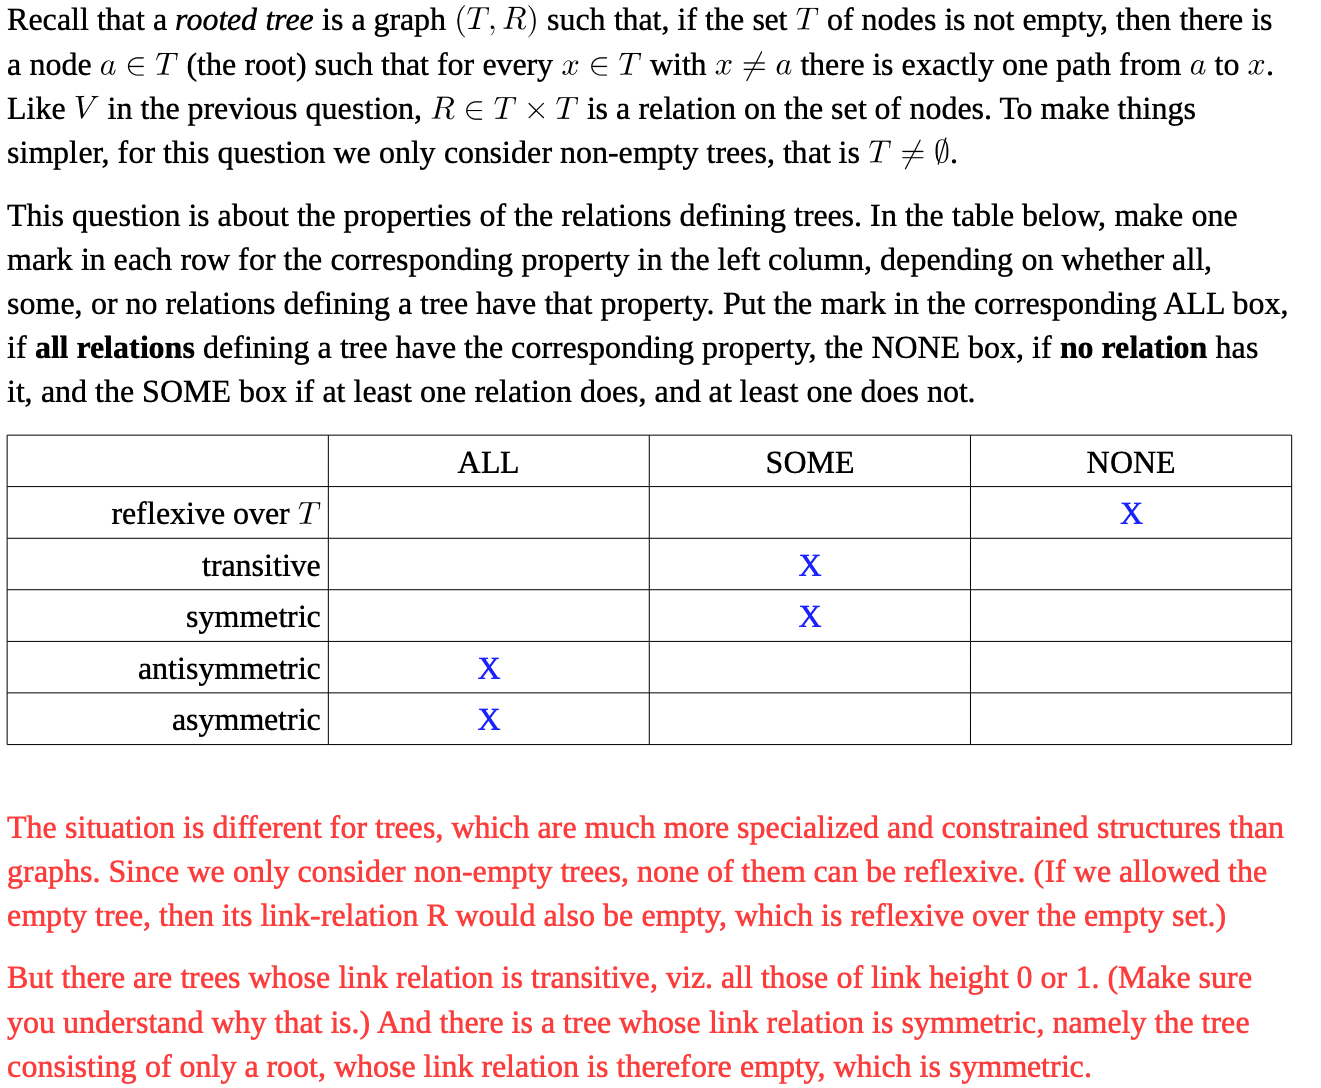
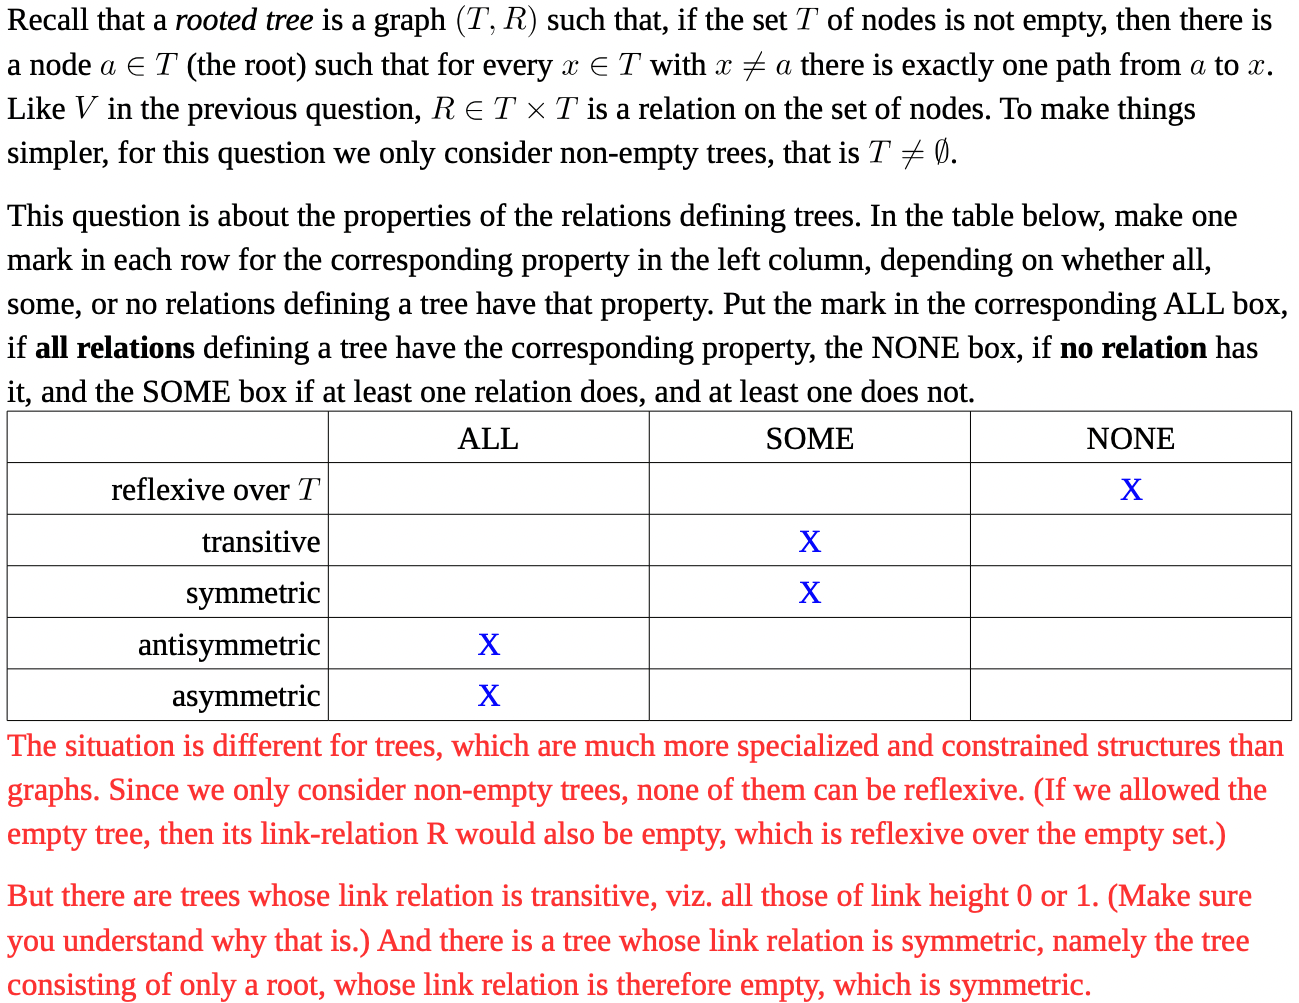
updated layout

diff --git a/main.tex b/main.tex
@@ -1,6 +1,6 @@
 \documentclass[a5paper]{article}
 
-\usepackage[top=1cm,bottom=1cm,left=2cm,right=2cm,marginparwidth=1.75cm]{geometry}
+\usepackage[top=1.0cm,bottom=1.0cm,left=1cm,right=1cm,textheight=597pt]{geometry}
 
 \usepackage[T1]{fontenc}
 \usepackage[utf8]{inputenc}
@@ -14,76 +14,99 @@
 \usepackage{amsmath}
 \usepackage{caption}
 
+\fboxrule=0.75pt
+\setlength{\fboxsep}{0pt}
+
 \pagenumbering{gobble}
 
 \begin{document}
 
+%%%%%%%%%%%%%%%%%%%%%%%%%%%%%%%%%%%%%%%%%%%%%%%%%%%%%%%%%%%%%%%%%%%%%%%%%%%%%%%%%%%%%%%%%%%%%%%%%%%%%%%%%%%%%%%%%%%%%%%%%%%%%%%%%%%%%%%%%%%%
 \section*{DNF solving}
+För att lösa DNF uppgifter kan man skapa ett truth table med alla literaler som förekommer i uttrycket.
+Sedan bygger man stegvis upp hela uttrycket med fler kolumner.
+Se s.12 i Definitions för \emph{basic logic connectives}.
 \begin{figure}[ht]
 	\centering
-	\resizebox{\textwidth}{!}{\includegraphics{2018_1/solution-5.1.jpeg}}
-	\caption*{För att lösa DNF uppgifter kan man skapa ett truth table med alla literaler som förekommer i uttrycket.
-		Sedan bygger man stegvis upp hela uttrycket med fler kolumner.
-        Se s.12 i Definitions för \emph{basic logic connectives}.
-	}\label{fig:2018-5-1}
+	\fbox{\resizebox{0.9\textwidth}{!}{\includegraphics{2018_1/solution-5.1.jpeg}}}
 \end{figure}
 
+%%%%%%%%%%%%%%%%%%%%%%%%%%%%%%%%%%%%%%%%%%%%%%%%%%%%%%%%%%%%%%%%%%%%%%%%%%%%%%%%%%%%%%%%%%%%%%%%%%%%%%%%%%%%%%%%%%%%%%%%%%%%%%%%%%%%%%%%%%%%
+\newpage
 \section*{Intervals}
+
+Here is a question about understanding how intervals change when sending through functions and meet.
+TODO:\@ Understand answer and \([[]]\) syntax
+
 \begin{figure}[ht]
 	\centering
-	\resizebox{\textwidth}{!}{\includegraphics{2017_1/solution-1.png}}
-	\caption*{Here is a question about understanding how intervals change when sending through functions and meet. TODO: Understand answer and [[]] syntax
-	}\label{fig:2017_1-1-1}
+	\vspace{-10pt}
+	\fbox{\resizebox{0.85\textwidth}{!}{\includegraphics{2017_1/solution-1.png}}}
+	\vspace{-10pt}
 \end{figure}
+
+Below is a explanation of how to think with intervals in more detail.
 \begin{figure}[ht]
 	\centering
-	\resizebox{\textwidth}{!}{\includegraphics{2017_1/solution-1-explained.png}}
-	\caption*{This is a explanation of how to think with intervals in more detail.
-	}\label{fig:2017_1-1-1}
+	\vspace{-10pt}
+	\fbox{\resizebox{0.85\textwidth}{!}{\includegraphics{2017_1/solution-1-explained.png}}}
+	\vspace{-30pt}
 \end{figure}
+
+%%%%%%%%%%%%%%%%%%%%%%%%%%%%%%%%%%%%%%%%%%%%%%%%%%%%%%%%%%%%%%%%%%%%%%%%%%%%%%%%%%%%%%%%%%%%%%%%%%%%%%%%%%%%%%%%%%%%%%%%%%%%%%%%%%%%%%%%%%%%
+\newpage
 \section*{Injective and surjectiv}
+This is an easier example for injective and surjective functions.
+The reason why this question is easier is because we can define the domain and codomain seperatly.
 \begin{figure}[ht]
 	\centering
-	\resizebox{\textwidth}{!}{\includegraphics{2017_1/solution-2.png}}
-	\caption*{This is an easier example for injective and surjective functions. The reason why this question is easier is because we can define the domain and codomain seperatly.
-	}\label{fig:2017_1-1-1}
-\end{figure}
-\begin{figure}[ht]
-	\centering
-	\resizebox{\textwidth}{!}{\includegraphics{2017_1/solution-3.png}}
-	\caption*{With all of these weird example where something should be surjective and not injective and the codomain = domain we need to utilize infinte. What is happening here is that any item in the codomain could be reached from the domain by takin the item plus one. Meaning it is surjective but we also point to the same element twice. 
-	}\label{fig:2017_1-3-1}
+	\fbox{\resizebox{0.95\textwidth}{!}{\includegraphics{2017_1/solution-2.png}}}
 \end{figure}
 
+With all of these weird example where something should be surjective and not injective and the codomain = domain we need to utilize infinte.
+What is happening here is that any item in the codomain could be reached from the domain by takin the item plus one.
+Meaning it is surjective but we also point to the same element twice.
 \begin{figure}[ht]
 	\centering
-	\resizebox{\textwidth}{!}{\includegraphics{2017_1/solution-4.png}}
-	\caption*{With all of these weird example where something should be surjective and not injective and the codomain = domain we need to utilize infinte. What is happening here is that any item in the codomain could be reached from the domain by takin the item plus one. Meaning it is surjective but we also point to the same element twice. 
-	}\label{fig:2017_1-4-1}
+	\fbox{\resizebox{0.95\textwidth}{!}{\includegraphics{2017_1/solution-3.png}}}
+\end{figure}
+\begin{figure}[ht]
+	\centering
+	\fbox{\resizebox{0.95\textwidth}{!}{\includegraphics{2017_1/solution-4.png}}}
 \end{figure}
 
+%%%%%%%%%%%%%%%%%%%%%%%%%%%%%%%%%%%%%%%%%%%%%%%%%%%%%%%%%%%%%%%%%%%%%%%%%%%%%%%%%%%%%%%%%%%%%%%%%%%%%%%%%%%%%%%%%%%%%%%%%%%%%%%%%%%%%%%%%%%%
+\newpage
 \section*{Properties of paths, graphs and trees}
+Here is an example of properties of an directed graph.
+The interesting thing to remember is that no property is guaranteed.
+We don't put any demands on our directed graph meaning it could be any kind of relation,
+every node could be symmetric but then we would need to edges per node.
 \begin{figure}[ht]
 	\centering
-	\resizebox{\textwidth}{!}{\includegraphics{2017_1/solution-5.png}}
-	\caption*{Here is an example of properties of an directed graph. The interesting thing to remember is that no property is guaranteed.
-	 We don't put any demands on our directed graph meaning it could be any kind of relation, every node could be symmetric but then we would need to edges per node. 
-	}\label{fig:2017_1-5-1}
+	\fbox{\resizebox{0.95\textwidth}{!}{\includegraphics{2017_1/solution-5.png}}}
 \end{figure}
 
+This is an example of properties for a rooted tree.
+This differs a bit from the example above, here some demands are put on the directed graph.
+The reason why it is antisymmetric and asymetric is because if there exist (a,b) and (b,a) then there is a two ways to reach a,
+you can go directly to be or go to a and then go to b and then a.
+The reason why we don't allow antisymmetric is the same reason it is not reflexive.
 \begin{figure}[ht]
 	\centering
-	\resizebox{\textwidth}{!}{\includegraphics{2017_1/solution-6.png}}
-	\caption*{This is an example of properties for a rooted tree. This differs a bit from the example above, here some demands are put on the directed graph.
-	 The reason why it is antisymmetric and asymetric is because if there exist (a,b) and (b,a) then there is a two ways to reach a, you can go directly to be or go to a and then go to b and then a. The reason why we don't allow antisymmetric is the same reason it is not reflexive.
-	}\label{fig:2017_1-6-1}
+	\fbox{\resizebox{0.95\textwidth}{!}{\includegraphics{2017_1/solution-6.png}}}
 \end{figure}
+
+%%%%%%%%%%%%%%%%%%%%%%%%%%%%%%%%%%%%%%%%%%%%%%%%%%%%%%%%%%%%%%%%%%%%%%%%%%%%%%%%%%%%%%%%%%%%%%%%%%%%%%%%%%%%%%%%%%%%%%%%%%%%%%%%%%%%%%%%%%%%
+\newpage
 \section*{Other important defintions}
 \subsection*{Node height/depth}
-The link-height (alias level) of a node in a tree is defined recursively: that of the root is 0, and that of each of the children of a node is one greater than that of the node.
-The node-height of a node (alias just its height in many texts) is defined by the same recursion, except that the node-height of the root is set at 1.
-Thus, for every node x, node-height(x) = link-height(x) + 1. As trees are usually drawn upside-down, the term ‘depth’ is often used instead of ‘height’.
+The link-height (alias level) of a node in a tree is defined recursively: that of the root is 0,
+and that of each of the children of a node is one greater than that of the node.
+The node-height of a node (alias just its height in many texts) is defined by the same recursion,
+except that the node-height of the root is set at 1.
+Thus, for every node x, \(node-height(x) = link-height(x) + 1\).
+As trees are usually drawn upside-down, the term `depth' is often used instead of `height'.
 
 \end{document}
-
 
